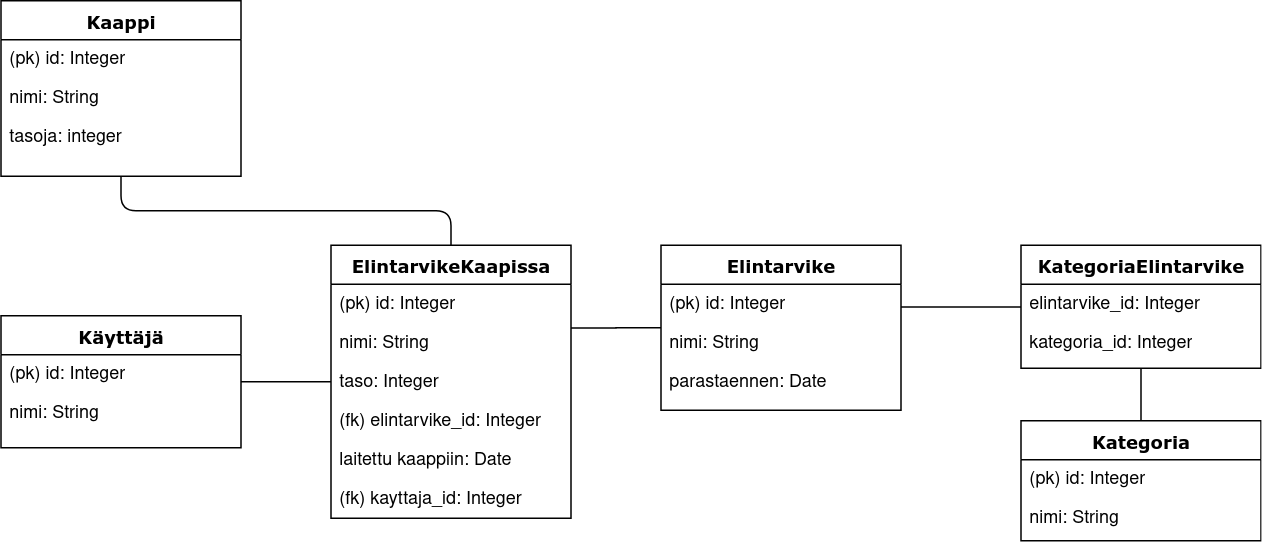
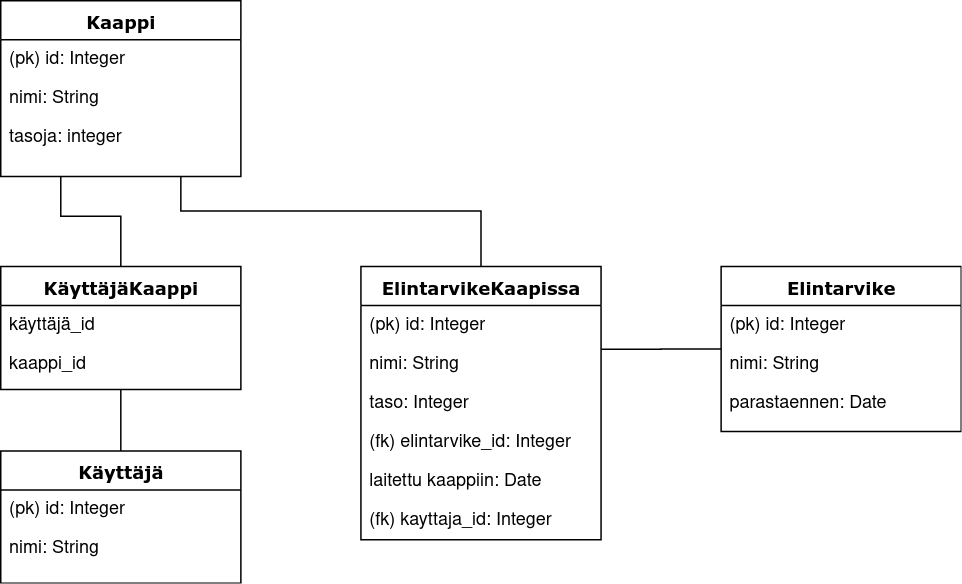
Muokattiin tietokantakaaviota

diff --git a/README.md b/README.md
@@ -1,4 +1,3 @@
 # Pakastimen ja jääkaapin sisällön hallintasovellus
-Ohjelman idea on pitää kirjaa pakastimeen/jääkaappiin yms. laitetuista ruoista. Pakastimeen unohtuu usein vuosia vanhaa ruokaa, jota kukaan ei kuitenkaan syö. Tämän ohjelman on tarkoitus korjata tämä ongelma. Sovellukseen voidaan lisätä kaappeja (esim. pakastin, jääkaappi yms.) ja kaapille määritellään tietty määrä hyllyjä/tasoja joille ruoat laitetaan. Ruoille voidaan määrittää kategoriat, esim. kotiruoat, valmisruoat, leipä, maitotuotteet yms. Ruokia lisättäessä niille valitaan päiväys, joka kuvaa milloin ne on laitettu kaappiin. Ruoille voidaan myös määrittää parasta ennen tai viimeinen käyttöpäivä. Ohjelmassa voidaan sen jälkeen tehdä hakuja kaappien sisältöihin, esimerkiksi näyttää vanhimmat ja pian vanhentuvat ruoat. Ruokia voi myös selailla kategorioittain ja hakea ruoan nimellä. 
-
+Ohjelman idea on pitää kirjaa pakastimeen/jääkaappiin yms. laitetuista ruoista. Pakastimeen unohtuu usein vuosia vanhaa ruokaa, jota kukaan ei kuitenkaan syö. Tämän ohjelman on tarkoitus korjata tämä ongelma. Sovellukseen voidaan lisätä kaappeja (esim. pakastin, jääkaappi yms.) ja kaapille määritellään tietty määrä hyllyjä/tasoja joille ruoat laitetaan. Ohjelmaan voidaan lisätä eri elintarvikkeita, ja niitä voidaan sitten lisätä eri kaappeihin. Ruokia lisättäessä niille valitaan päiväys, joka kuvaa milloin ne on laitettu kaappiin. Ruoille voidaan myös määrittää parasta ennen tai viimeinen käyttöpäivä. Ohjelmassa voidaan sen jälkeen tehdä hakuja kaappien sisältöihin, esimerkiksi näyttää vanhimmat ja pian vanhentuvat ruoat. 
 ![tietokantakaavio](https://raw.githubusercontent.com/Lukxsx/PakastimenHallinta/master/tietokantakaavio.png)
